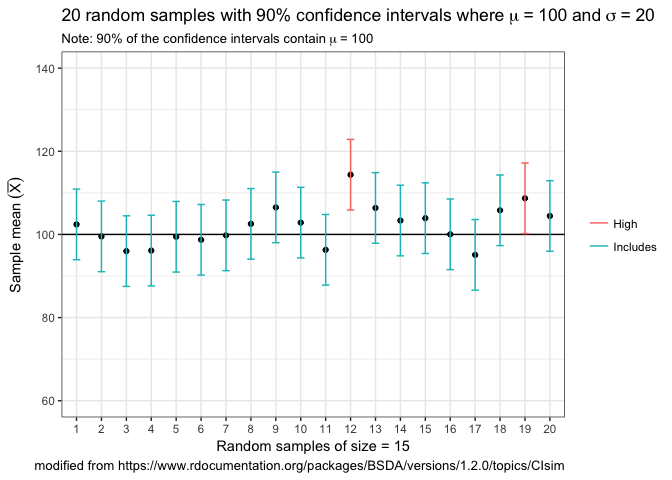
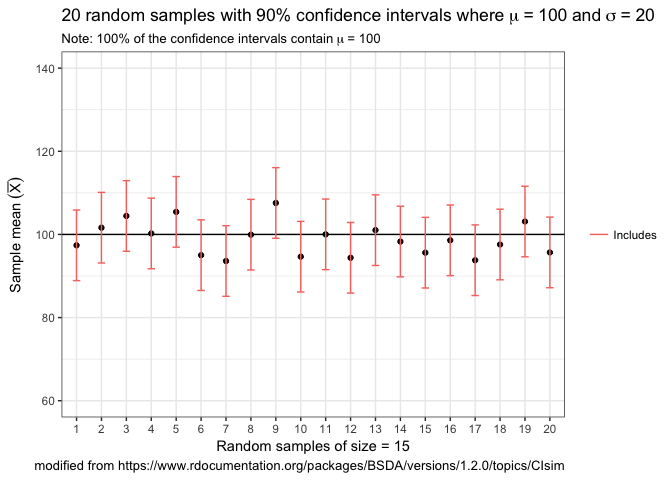
final pass at documentation and readme

diff --git a/README.md b/README.md
@@ -20,6 +20,8 @@ packages and concepts I’m trying to master. Currently contains:
   - `Mode` which finds the modal value in a vector of data
   - `SeeDist` which wraps around ggplot2 to provide visualizations of
     univariate data.
+  - `OurConf` is a simulation function that helps you learn about
+    confidence intervals
 
 ## Installation
 
@@ -135,7 +137,7 @@ OurConf(samples = 20, n = 15, mu = 100, sigma = 20, conf.level = 0.90)
 
 ![](README-OurConf-1.png)<!-- -->
 
-    #> 90 % of the confidence intervals contain Mu = 100 .
+    #> 100 % of the confidence intervals contain Mu = 100 .
 
 ## Credits
 
